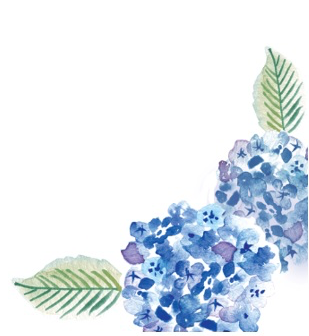
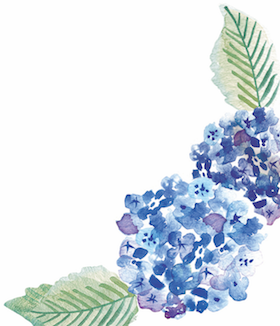
change flower in mobile update pngs to higher-res

diff --git a/app/assets/stylesheets/home.scss b/app/assets/stylesheets/home.scss
@@ -152,8 +152,8 @@ section {
       width: 75%;
     }
 
-    background-image: url(asset-path('background/flower_vert.png'));
-    background-position: left;
+    background-image: url(asset-path('background/flower_horiz.png'));
+    background-position: bottom right;
   }
 }
 
